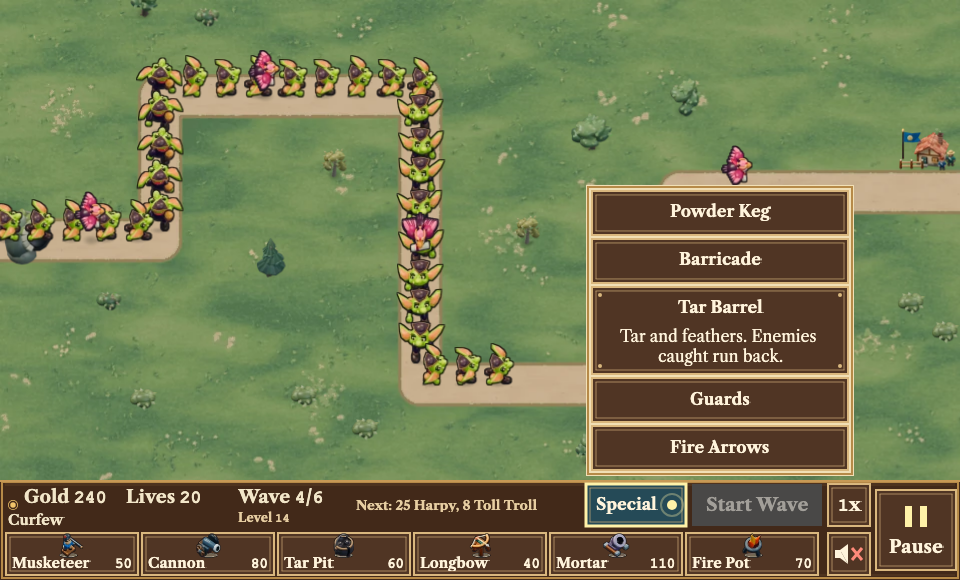
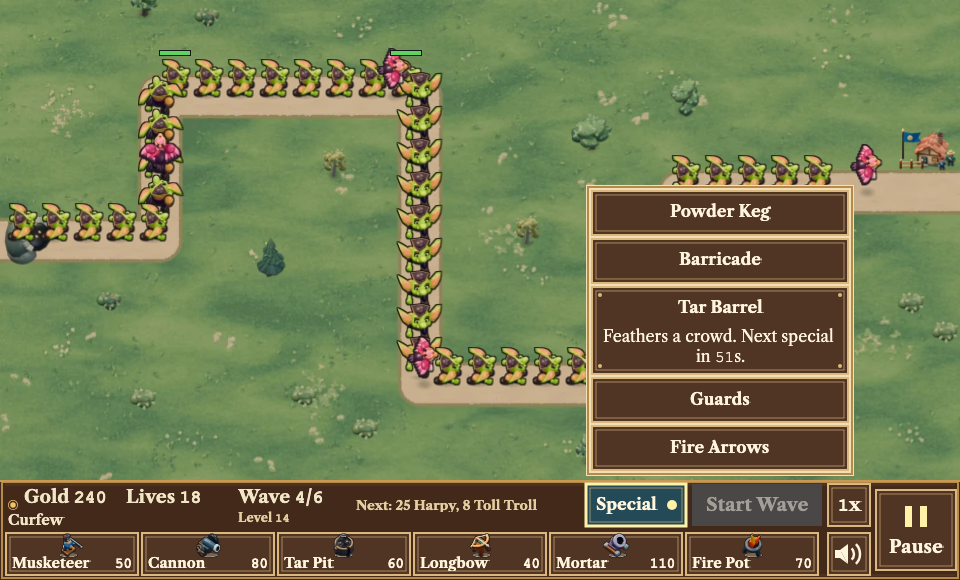
Show the feather barrel recharge before casting

diff --git a/e2e/feathers.ts b/e2e/feathers.ts
@@ -1,4 +1,5 @@
 import { expect, test, type Page } from '@playwright/test';
+import { levelTips } from '../src/game/names';
 import type { TarpitTestApi } from '../src/game/testGlobal';
 import { FEATHERS } from '../src/sim/feathers';
 import { BARREL_RECHARGE_TICKS, SPECIAL_RECHARGE_TICKS } from '../src/sim/specials';
@@ -14,6 +15,22 @@ async function start(page: Page, look: string) {
   await waitForTitle(page);
   await page.evaluate(() => (window.__tarpit as TarpitTestApi).startGame());
 }
+
+async function openTips(page: Page, level: number, touch: boolean) {
+  await page.goto('/?test=1');
+  await waitForFirstScreen(page, { showTips: true });
+  await page.evaluate(id => window.__tarpit!.setCampaignProgress!(
+    Object.fromEntries(Array.from({ length: id - 1 }, (_, i) => [i + 1, 3]))), level);
+  await press(page, 'title:campaign', touch);
+  await onScreen(page, 'levelMap');
+  await press(page, 'title:stop:' + level, touch);
+  await onScreen(page, 'levelCard');
+  await press(page, 'title:play', touch);
+  await onScreen(page, 'levelTips');
+}
+
+// Linux draws the bundled font about 2.6% wider than macOS before scaling.
+const wideFactor = process.platform === 'darwin' ? 1.09 : 1.06;
 
 export function featherLooks(look: string, phone: boolean) {
   test(look + ' shows the runner facing back, a stopped neighbour and a stable frozen frame', async ({ page }) => {
@@ -62,75 +79,19 @@ export function featherLooks(look: string, phone: boolean) {
 }
 
 export function featherLabels(phone: boolean) {
-  // Linux draws the bundled font about 2.6% wider than macOS before scaling.
-  const factor = process.platform === 'darwin' ? 1.09 : 1.06;
   for (const [level, tip] of [
     [5, 'Drop a Tar Barrel on a crowd to slow it down.'],
     [9, 'Feathers make tarred enemies run back. Bosses are too proud.'],
-    [11, 'Drop a Tar Barrel on a crowd and they run back.'],
   ] as const) test(`the level ${level} feather tip fits with wider text`, async ({ page }) => {
     test.setTimeout(60_000);
-    await useWideFontMetrics(page, factor);
-    await page.goto('/?test=1');
-    await waitForFirstScreen(page, { showTips: true });
-    await page.evaluate(id => window.__tarpit!.setCampaignProgress!(
-      Object.fromEntries(Array.from({ length: id - 1 }, (_, i) => [i + 1, 3]))), level);
-    await press(page, 'title:campaign', phone);
-    await onScreen(page, 'levelMap');
-    await press(page, 'title:stop:' + level, phone);
-    await onScreen(page, 'levelCard');
-    await press(page, 'title:play', phone);
-    await onScreen(page, 'levelTips');
+    await useWideFontMetrics(page, wideFactor);
+    await openTips(page, level, phone);
     expect(await api(page, t => t.campaignLabels().map(label => label.text))).toContain(tip);
     await checkSpacing(page);
   });
 
-  for (const metrics of ['normal', 'fixed Caslon', 'fixed fallback', 'wide']) {
-    test(`C9: the barrel description and wait follow the level rule (${metrics})`, async ({ page }) => {
-      test.setTimeout(90_000);
-      if (metrics === 'wide') await useWideFontMetrics(page, factor);
-      if (metrics.startsWith('fixed')) await useTallFontMetrics(page, metrics === 'fixed fallback');
-      await start(page, 'painted');
-      for (const id of [0, 5, 14]) {
-        if (id) await page.evaluate(id => window.__tarpit!.startLevel!(id), id);
-        await api(page, t => { if (!t.state().level) t.state().wave = 3; t.startWave(); });
-        await press(page, 'special', phone);
-        const caption = 'Tar and feathers. Enemies caught run back.';
-        await checkLabel(page, 'special:tarBarrel', 'Tar Barrel');
-        if (id === 14) {
-          await checkLabel(page, 'special:tarBarrel', caption);
-          const labels = await api(page, t => t.campaignLabels());
-          const name = labels.find(line => line.text === 'Tar Barrel')!;
-          expect(labels.find(line => line.text === caption)!.y).toBeGreaterThan(name.y + name.height);
-        } else expect(await visibleTexts(page)).not.toContain(caption);
-        await press(page, 'special:tarBarrel', phone);
-        await mapPress(page, 1, 7, phone);
-        const ticks = id === 14 ? BARREL_RECHARGE_TICKS : SPECIAL_RECHARGE_TICKS;
-        const wait = (remaining: number) => (phone ? '' : 'Wait ') + Math.ceil(remaining / TICKS_PER_SECOND) + 's';
-        await checkLabel(page, 'special', wait(ticks));
-        await page.evaluate(n => window.__tarpit!.step!(n), TICKS_PER_SECOND);
-        await checkLabel(page, 'special', wait(ticks - TICKS_PER_SECOND));
-        if (id === 14) {
-          expect(await api(page, t => {
-            t.state().spawnedPerGroup.fill(999);
-            t.state().enemies = [];
-            t.step(1);
-            return t.state().phase;
-          })).toBe('setup');
-          const remaining = ticks - TICKS_PER_SECOND - 1;
-          await checkLabel(page, 'special', wait(remaining));
-          await page.evaluate(n => window.__tarpit!.step!(n), TICKS_PER_SECOND);
-          await checkLabel(page, 'special', wait(remaining));
-          expect(await api(page, t => t.startWave().ok)).toBe(true);
-          await page.evaluate(n => window.__tarpit!.step!(n), TICKS_PER_SECOND);
-          await checkLabel(page, 'special', wait(remaining - TICKS_PER_SECOND));
-        }
-      }
-    });
-  }
-
   test('the Feathers description fits its card with wider text', async ({ page }) => {
-    await useWideFontMetrics(page, factor);
+    await useWideFontMetrics(page, wideFactor);
     await start(page, 'painted');
     await page.evaluate(() => {
       const t = window.__tarpit as TarpitTestApi;
@@ -161,4 +122,62 @@ export function featherLabels(phone: boolean) {
     expect(label.overlaps, text).toEqual([]);
     expect(label.cssSize, text).toBeGreaterThan(11.1);
   });
+}
+
+export function featherBarrelLabels(touch: boolean, phone = false) {
+  const heights = phone ? [664, 844] : [undefined];
+  for (const height of heights) for (const metrics of ['normal', 'fixed Caslon', 'fixed fallback', 'wide']) {
+    const layout = height ? `390x${height}, ` : '';
+    test(`C9: the barrel description, tip and wait follow the level rule (${layout}${metrics})`, async ({ page }) => {
+      test.setTimeout(90_000);
+      if (height) await page.setViewportSize({ width: 390, height });
+      if (metrics === 'wide') await useWideFontMetrics(page, wideFactor);
+      if (metrics.startsWith('fixed')) await useTallFontMetrics(page, metrics === 'fixed fallback');
+      await openTips(page, 11, touch);
+      const [, castTip, waitTip] = levelTips(11, touch);
+      const tips = await api(page, t => t.campaignLabels());
+      const cast = tips.find(line => line.text === castTip)!;
+      const delay = tips.find(line => line.text === waitTip)!;
+      expect(delay.y).toBeGreaterThan(cast.y + cast.height);
+      await checkSpacing(page);
+
+      const seconds = Math.ceil(BARREL_RECHARGE_TICKS / TICKS_PER_SECOND);
+      const caption = `Feathers a crowd. Next special in ${seconds}s.`;
+      await start(page, 'painted');
+      for (const id of [0, 5, 14]) {
+        if (id) await page.evaluate(id => window.__tarpit!.startLevel!(id), id);
+        await api(page, t => { if (!t.state().level) t.state().wave = 3; t.startWave(); });
+        await press(page, 'special', touch);
+        await checkLabel(page, 'special:tarBarrel', 'Tar Barrel');
+        if (id === 14) {
+          await checkLabel(page, 'special:tarBarrel', caption);
+          const labels = await api(page, t => t.campaignLabels());
+          const name = labels.find(line => line.text === 'Tar Barrel')!;
+          expect(labels.find(line => line.text === caption)!.y).toBeGreaterThan(name.y + name.height);
+        } else expect(await visibleTexts(page)).not.toContain(caption);
+        await press(page, 'special:tarBarrel', touch);
+        await mapPress(page, 1, 7, touch);
+        const ticks = id === 14 ? BARREL_RECHARGE_TICKS : SPECIAL_RECHARGE_TICKS;
+        const wait = (remaining: number) => (phone ? '' : 'Wait ') + Math.ceil(remaining / TICKS_PER_SECOND) + 's';
+        await checkLabel(page, 'special', wait(ticks));
+        await page.evaluate(n => window.__tarpit!.step!(n), TICKS_PER_SECOND);
+        await checkLabel(page, 'special', wait(ticks - TICKS_PER_SECOND));
+        if (id === 14) {
+          expect(await api(page, t => {
+            t.state().spawnedPerGroup.fill(999);
+            t.state().enemies = [];
+            t.step(1);
+            return t.state().phase;
+          })).toBe('setup');
+          const remaining = ticks - TICKS_PER_SECOND - 1;
+          await checkLabel(page, 'special', wait(remaining));
+          await page.evaluate(n => window.__tarpit!.step!(n), TICKS_PER_SECOND);
+          await checkLabel(page, 'special', wait(remaining));
+          expect(await api(page, t => t.startWave().ok)).toBe(true);
+          await page.evaluate(n => window.__tarpit!.step!(n), TICKS_PER_SECOND);
+          await checkLabel(page, 'special', wait(remaining - TICKS_PER_SECOND));
+        }
+      }
+    });
+  }
 }

diff --git a/src/game/names.ts b/src/game/names.ts
@@ -5,6 +5,8 @@
 
 import { LEVELS } from '../sim/levels.ts';
 import { BOONS } from '../sim/boons.ts';
+import { BARREL_RECHARGE_TICKS } from '../sim/specials.ts';
+import { TICKS_PER_SECOND } from '../sim/time.ts';
 import type { BoonId, Difficulty, EnemyType, LevelDef, LevelFeat, LevelTaxes, MapId, SpecialType, TargetingMode, TaxKind, TowerLevel, TowerType, UpgradePath } from '../sim';
 
 /** The wave 10 boss (docs/SCOPE-v4.md, milestone 23): the HUD boss bar and the wave 10 preview. */
@@ -231,7 +233,8 @@ export const SPECIAL_NAMES: Readonly<Record<SpecialType, string>> = {
   guards: 'Guards',
 };
 
-export const TAR_BARREL_DESCRIPTION = 'Tar and feathers. Enemies caught run back.';
+const featherBarrelWait = rechargeText(BARREL_RECHARGE_TICKS, TICKS_PER_SECOND, true);
+export const TAR_BARREL_DESCRIPTION = `Feathers a crowd. Next special in ${featherBarrelWait}.`;
 
 /** The HUD's special button label (milestone 25b). */
 export const SPECIAL_BUTTON_TEXT = 'Special';
@@ -612,7 +615,11 @@ function campaignTips(touch: boolean): Readonly<Record<number, readonly string[]
     8: ['Send Guards ahead of a pack of Redcoat Shieldbearers.', 'Place them on the trail where your towers can help.', 'Drop Fire Arrows on a crowd to burn it.'],
     9: [`${action} a tower you have upgraded once.`, 'Pick an upgrade before Assessor Grumblefoot arrives.', 'Feathers make tarred enemies run back. Bosses are too proud.'],
     10: ['King Grumblemaw calls Revenue Hounds. Save a Powder Keg.', 'Slow King Grumblemaw with tar, then hit him with fire.'],
-    11: ['Your opening tower goes up at its usual price.', 'Selling a tower still leaves it on the tax roll.', 'Drop a Tar Barrel on a crowd and they run back.'],
+    11: [
+      'First tower is untaxed. Sold towers still count for tax.',
+      'Drop a Tar Barrel on a crowd and they run back.',
+      `After a feather barrel, specials take ${featherBarrelWait} to return.`,
+    ],
     12: ['Put a Tar Pit where several towers can reach it.', 'Save a special for the pack that gets ahead.'],
     13: ['Plan your next purchase before the wave ends.', 'The clock waits while you choose a reward.', manualWaveTip],
     14: ['Check the ring before you build.', 'Keep the Mortar back. Its inner ring stays put.'],

diff --git a/src/game/names.test.ts b/src/game/names.test.ts
@@ -2,7 +2,22 @@ import { readFileSync } from 'node:fs';
 import ts from 'typescript';
 import { describe, expect, it } from 'vitest';
 import { LEVELS } from '../sim/levels';
-import { levelFeatText, ENEMY_SHORT_NAMES, GUARD_NAMES, LEVEL_NEW, LEVEL_STORY, STORY_TEXT, levelTips } from './names';
+import { BARREL_RECHARGE_TICKS } from '../sim/specials';
+import { TICKS_PER_SECOND } from '../sim/time';
+import { levelFeatText, ENEMY_SHORT_NAMES, GUARD_NAMES, LEVEL_NEW, LEVEL_STORY, STORY_TEXT, TAR_BARREL_DESCRIPTION, levelTips } from './names';
+
+it('states the approved feather barrel wait in the menu and after the casting tip', () => {
+  const seconds = Math.ceil(BARREL_RECHARGE_TICKS / TICKS_PER_SECOND);
+  expect(TAR_BARREL_DESCRIPTION).toBe(`Feathers a crowd. Next special in ${seconds}s.`);
+  for (const touch of [false, true]) {
+    expect(levelTips(11, touch).slice(-2)).toEqual([
+      'Drop a Tar Barrel on a crowd and they run back.',
+      `After a feather barrel, specials take ${seconds}s to return.`,
+    ]);
+  }
+  // Changing the displayed wait also requires reviewing the commissioned copy.
+  expect(seconds).toBe(51);
+});
 
 describe('the King’s collectors', () => {
   it('keeps the compact HUD labels and Guard names in their approved forms', () => {

diff --git a/e2e/hudButtonLabels.ts b/e2e/hudButtonLabels.ts
@@ -29,8 +29,12 @@ export async function checkLabel(page: Page, key: string, text: string) {
   expect(label, key + ' ' + text).toBeDefined();
   const description = page.viewportSize()!.height + 'px ' + key + ' ' + text;
   test.info().annotations.push({ type: 'font', description: description + ' ' + label!.css.toFixed(2) });
-  const shortPhoneLabel = page.viewportSize()!.height === 664 && (key === 'special' || key === 'startWave');
-  expect.soft(label!.css, description).toBeGreaterThanOrEqual(shortPhoneLabel ? 11 : 12);
+  let minimumCss = 12;
+  if (page.viewportSize()!.height === 664) {
+    if (key.startsWith('special:')) minimumCss = 11.1;
+    if (key === 'special' || key === 'startWave') minimumCss = 11;
+  }
+  expect.soft(label!.css, description).toBeGreaterThanOrEqual(minimumCss);
   if (key === 'startWave') {
     expect.soft(label!.lines.length, description).toBeLessThanOrEqual(2);
     if (text === 'Boss next') expect(label!.lines, description).toEqual(['Boss', 'next']);

diff --git a/e2e/feathers.spec.ts b/e2e/feathers.spec.ts
@@ -2,10 +2,11 @@ import { expect, test } from '@playwright/test';
 import { count, onScene, startPlay } from './sound';
 import { press } from './campaign';
 import { waitForFirstScreen } from './title';
-import { featherLabels, featherLooks } from './feathers';
+import { featherBarrelLabels, featherLabels, featherLooks } from './feathers';
 
 for (const look of ['classic', 'painted', 'showpiece']) featherLooks(look, false);
 featherLabels(false);
+featherBarrelLabels(false);
 
 test('a barrel is silent for feathers until a path B shot triggers one puff', async ({ page }) => {
   test.setTimeout(60_000);

diff --git a/e2e/feathers-phone.spec.ts b/e2e/feathers-phone.spec.ts
@@ -1,4 +1,5 @@
-import { featherLabels, featherLooks } from './feathers';
+import { featherBarrelLabels, featherLabels, featherLooks } from './feathers';
 
 featherLooks('painted', true);
 featherLabels(true);
+featherBarrelLabels(true, true);

diff --git a/e2e/feathers-touch.spec.ts b/e2e/feathers-touch.spec.ts
@@ -1,0 +1,3 @@
+import { featherBarrelLabels } from './feathers';
+
+featherBarrelLabels(true);

diff --git a/DEVLOG.md b/DEVLOG.md
@@ -11015,7 +11015,7 @@ Implementation and verification commits, in order, were `c881e20`, `7110caf`, `f
 
 ## Milestone 50, third pass — feather barrels in Act Two
 
-The retained build passes all twenty individual level gates. It misses C2 on four levels and misses S1 in the combined campaign gate (C5). The bounded search ended with the original acceptance thresholds in place.
+The retained build passes all twenty individual level gates and the combined campaign gate (C5), including S1. C2 passes on every Act Two level under the accepted one-life threshold. The level 12 and level 20 wave 6 adjustments closed the remaining S1 and C2 misses.
 
 A feather barrel takes 3,034 combat ticks to refill (50.57 seconds) and causes a 63-tick retreat (1.05 seconds). The control displays 51 seconds immediately after the cast. Ordinary barrels refill in 1,200 ticks and apply tar. The tower retreat remains 88 ticks. Main at `dca7edf` is the before-build for all comparisons below.
 
@@ -11028,6 +11028,8 @@ All ten levels enable the feather-barrel rule. Seven have economy or wave adjust
 | 11 | Wave 6 Troll count | 21 | 19 | −9.52% | Person's score and nudge margin (P1, L1m) |
 | 12 | Starting gold | 260 | 269 | +3.46% | Feat, tax and sensitivity (F1, T1, L6), and the specialist’s Feathers purchase |
 | 12 | Wave 1 Shieldbearer interval, seconds | 1.15 | 1.265 | +10.00% | Same level 12 checks |
+| 12 | Wave 6 Shieldbearer interval, seconds | 0.8 | 0.79 | −1.25% | Act Two difficulty step (S1) |
+| 12 | Wave 6 Troll count | 21 | 22 | +4.76% | Same level 12 check |
 | 13 | Wave 3 Harpy count | 39 | 34 | −12.82% | Person's score, nudge margin and sensitivity (P1, L1m, L6) |
 | 13 | Wave 5 Troll count | 15 | 13 | −13.33% | Same level 13 checks |
 | 17 | Wave 2 Harpy count | 30 | 27 | −10.00% | Person, feat and taxed-player margins (P1, F1, T2, L1m) |
@@ -11037,6 +11039,7 @@ All ten levels enable the feather-barrel rule. Seven have economy or wave adjust
 | 19 | Wave 3 Troll interval, seconds | 1.75 | 1.61 | −8.00% | Same level 19 checks |
 | 20 | Starting gold | 245 | 270 | +10.20% | Finale tax advantage (T1) |
 | 20 | Wave 2 second group, 24 enemies | Harpy | Goblin | Type change | Same level 20 check |
+| 20 | Wave 6 Troll interval, seconds | 3 | 2.85 | −5.00% | Barrel advantage (C2), with the campaign lives drop (L8) preserved |
 
 ### Act Two gate and barrel impact
 
@@ -11045,7 +11048,7 @@ Each cell reads main → retained. A single value applies to both. The forced po
 | Level | Good | Person | Beginner | Forced Good | Forced Person |
 |---:|---|---|---|---|---|
 | 11 | 2/20 | 2/14 | 0/0 | 2/20 → 2/16 | 2/18 → 1/6 |
-| 12 | 2/19 → 2/18 | 2/15 | 0/0 | 2/16 → 1/7 | 0/0 |
+| 12 | 2/19 → 2/17 | 2/15 → 2/13 | 0/0 | 2/16 → 1/6 | 0/0 |
 | 13 | 3/20 | 2/14 → 2/15 | 0/0 | 2/14 → 1/9 | 2/12 → 1/5 |
 | 14 | 3/20 | 2/14 | 0/0 | 3/20 | 3/20 → 2/13 |
 | 15 | 2/14 | 2/13 | 0/0 | 2/14 | 2/13 → 2/12 |
@@ -11053,14 +11056,14 @@ Each cell reads main → retained. A single value applies to both. The forced po
 | 17 | 2/20 | 2/14 | 0/0 | 2/20 | 1/4 → 1/1 |
 | 18 | 2/14 → 2/15 | 2/13 | 0/0 | 1/11 → 1/7 | 1/9 → 1/4 |
 | 19 | 2/14 | 2/14 → 2/15 | 0/0 | 1/4 → 0/0 | 0/0 |
-| 20 | 2/13 | 2/13 | 0/0 | 2/14 → 2/13 | 2/13 → 2/12 |
+| 20 | 2/13 | 2/13 | 0/0 | 2/14 → 2/13 | 2/13 |
 
 Barrel casts/enemies newly feathered by those casts. This count excludes tower featherings.
 
 | Level | Good | Person | Beginner | Forced Good | Forced Person |
 |---:|---|---|---|---|---|
 | 11 | 1/0 → 1/3 | 2/0 → 2/3 | 0/0 | 12/0 → 6/24 | 19/0 → 7/26 |
-| 12 | 3/0 → 2/13 | 3/0 → 2/11 | 0/0 | 22/0 → 9/50 | 20/0 → 8/47 |
+| 12 | 3/0 → 2/12 | 3/0 → 2/11 | 0/0 | 22/0 → 9/54 | 20/0 → 8/47 |
 | 13 | 3/0 → 3/17 | 6/0 → 4/13 | 0/0 | 11/0 → 7/18 | 23/0 → 8/16 |
 | 14 | 4/0 → 3/20 | 4/0 → 3/16 | 0/0 | 14/0 → 7/40 | 19/0 → 7/33 |
 | 15 | 1/0 → 1/3 | 4/0 → 3/2 | 0/0 | 12/0 → 5/20 | 19/0 → 7/15 |
@@ -11068,13 +11071,13 @@ Barrel casts/enemies newly feathered by those casts. This count excludes tower f
 | 17 | 3/0 → 2/8 | 3/0 → 2/4 | 0/0 | 18/0 → 8/25 | 24/0 → 9/31 |
 | 18 | 2/0 → 2/6 | 3/0 → 2/4 | 0/0 | 13/0 → 5/18 | 18/0 → 7/24 |
 | 19 | 4/0 → 3/19 | 4/0 → 3/12 | 0/0 | 15/0 → 3/12 | 9/0 → 3/7 |
-| 20 | 2/0 → 1/4 | 5/0 → 3/1 | 0/0 | 20/0 → 8/25 | 31/0 → 11/24 |
+| 20 | 2/0 → 1/3 | 5/0 → 3/1 | 0/0 | 20/0 → 8/24 | 31/0 → 11/24 |
 
-### Where the search stopped
+### Closing C2 and S1
 
-At 3,034/63 the C2 control leaves the barrel's turn unused but spends the same charge. Good and the control both earned two stars on each miss. On levels 15, 16, 18 and 20 their respective lives were 14/13, 14/13, 15/14 and 13/13. The first three miss by one life and the finale by two. Good still ended the finale on main's 13 lives. Across levels 1–6 versus 15–20, Good's mean dropped exactly 3.00 lives, the L8 minimum.
+At 3,034/63 the C2 control leaves the barrel's turn unused but spends the same charge. Under the original two-life threshold, levels 15, 16, 18 and 20 missed at 14/13, 14/13, 15/14 and 13/13 lives respectively. The coordinator accepted a one-life advantage for C2. With the wave 6 Troll interval at 2.85 s, level 20 now passes 13 to 12. Good still ends the finale on main's 13 lives. Across levels 1–6 versus 15–20, Good's mean drops exactly 3.00 lives, the L8 minimum.
 
-For S1, Person averaged 15⅓ on levels 8–10 and 14.00 on levels 11–20. The drop of 1⅓ misses 1½ by one-sixth. The ten-level total must fall from 140 to 138 or lower. The first Act Two stop adds one life relative to level 10. The greatest adjacent decline in Act Two is two lives, from level 19 to level 20. Both transitions pass.
+For S1, the level 12 wave 6 changes lower Person's Act Two mean from 14.00 to 13.80 lives. The preceding three levels average 15.33, giving a drop of 1.53 against the required 1.50. The first Act Two stop adds one life relative to level 10. The greatest adjacent decline in Act Two is two lives.
 
 The 1,500-tick wait and 88-tick retreat gave every Act Two level the required barrel benefit, including a legal level 20 combination with Good on 14 versus 12 unused. Its remaining local failures were level 13 L6 and level 19 F2, L1m and L6. The combined campaign also missed S1 and L8. At the retained wait, reducing the level 20 wave 6 Troll interval from 3 to 2.5 seconds cleared its C2 comparison but moved Good's six-level mean drop one-sixth below the L8 floor. The 3,000/65, 3,034/65 and 3,034/88 trials each lost local gates at the prior retune. These trials establish tradeoffs for the tested settings. They do not exhaust the permitted wave changes.
 
@@ -11083,9 +11086,9 @@ The 1,500-tick wait and 88-tick retreat gave every Act Two level the required ba
 | Target | What a regression reports |
 |---|---|
 | C1 | Expected eligible enemy IDs versus emitted feather events, including the radius edge, Harpy, bosses, prior marks and the repeat cast. An ordinary cast with a retreat fails on its level or Free play. |
-| C2 | The level and both stars/lives results when the cast gains less than two lives or one star and Good finishes below 20. |
+| C2 | The level and both stars/lives results when the cast gains neither a life nor a star and Good finishes below 20. |
 | C4 | A Free play bot or matrix digest mismatch for its map, or a different report lock. The previous global-barrel build produced a Meadow bot digest beginning `a057568a` against `0c640ae4`. |
-| C5 | Failed labels for the individual level or the combined run. Here the combined result returns S1. |
+| C5 | Failed labels for the individual level or the combined run. |
 | C6 | The level and forced player exceeding a four-life advantage over Good, earning an additional third star, taking the wrong path or refusing an action. Independent path-only pins remain in force. |
 | C7 | A per-level digest mismatch for full runs or the reconstructed main level definition. The previous build produced a level 9 digest beginning `6ef74fe9` against `76a7118f`. |
 | C8 | A finale difference greater than two lives from 13. |
@@ -11100,17 +11103,21 @@ On level 12 the specialist had 106 gold before wave 3 and needed 110 to buy the 
 
 The first production browser run found a real overlap on paged landscape cards. In fixed Caslon and fallback metrics the feat intersected “Best stars” by 8.075 pixels. The layout now measures the rules again after wrapping them to the sheet width and fits the gaps to the available height. Levels 17 and 20 had 7.675 pixels of clearance after the repair. All ten Act Two notices were checked in desktop, tablet and both phone sizes with normal, fixed Caslon, fixed fallback and wide metrics (160 cases).
 
-The fifteen images in `docs/review/m50/` include a level 14 cast on eight enemies at desktop and phone sizes, three two-tax cards for level 17, and the 51-second special button. The eight enemies ran back 37–55.5 pixels. On level 5 three tarred enemies each moved forward 18.5 pixels during the control. On level 20 Grumblemaw advanced 17.64 pixels in tar with zero feather events. The old Showpiece crowd picture was retired because Act Two cannot select that look. The screenshot baseline specs exercise title, Free play or first-act scenes. No baseline spec is expected to change pixels. Local Playwright runs skip Linux pixel comparisons.
+The images in `docs/review/m50/` include a level 14 cast on eight enemies at desktop and phone sizes, three two-tax cards for level 17, and the 51-second special button. The eight enemies ran back 37–55.5 pixels. On level 5 three tarred enemies each moved forward 18.5 pixels during the control. On level 20 Grumblemaw advanced 17.64 pixels in tar with zero feather events. The old Showpiece crowd picture was retired because Act Two cannot select that look. The menu captures show the wait before the cast, and the phone tips capture shows the two barrel instructions on level 11. The screenshot baseline specs exercise title, Free play or first-act scenes. Local Playwright runs skip Linux pixel comparisons.
 
-The full unit suite passed 2,843 of 2,848 tests across 130 files. Five assertions failed, all in the combined gate or the four C2 controls listed above. The independent path-only pins passed. The specialist usage check runs the entire campaign when invoked alone. Its cold run exceeded the old 120-second limit under concurrent load, so it now uses the same 480-second budget as the combined gate.
+Before the closing changes, the full unit suite passed 2,843 of 2,848 tests across 130 files. Five assertions failed in the combined gate and the four original C2 controls. The independent path-only pins passed. The specialist usage check runs the entire campaign when invoked alone. Its cold run exceeded the old 120-second limit under concurrent load, so it now uses the same 480-second budget as the combined gate.
 
 The full three-project Playwright run passed 1,189, skipped eight and caught the four fixed-font desktop/tablet overlaps. On the rebuilt production bundle, all 34 affected card, campaign, tip and countdown cases passed, including the four original failures. The size check measured 3,769,253 bytes across 30 files against the 20 MB budget. Lint, typecheck, the production build and all 219 asset manifest rows passed.
 
[2 lines of base64/hex data omitted]
+
+The copy checks compare both displayed waits with the rounded value from the data. A scratch change from 3,034 to 3,094 ticks produces 52s and fails the approved-duration assertion. Freezing either line at 51s with that scratch value fails its own copy assertion.
 
 ## Verifier (Claude Sonnet), milestone 50, independent run on d29ab2c
 
 Verdict: merge, with two record fixes (below). Everything here was measured on `d29ab2c` against a clean export of `dca7edf`.
+
+The copy follow-up updated the README recharge description and the third-pass record above.
 
 - **C4, C7.** My own comparison (not the repo's digests): 6 bots (Beginner, Good, Person, Feathers, Good-feat, Person-feat) on levels 1 to 10, and the same 6 on every Free play map and difficulty, 116 full-run digests over 2,093,163 bytes of JSON. Identical on both trees, and the level 1 to 10 definitions hash the same. Mutations that went red: barrel feathers on every level, barrel feathers bosses, enemy feathered twice, feather barrel refills at 1,200, ordinary barrel refills at 3,034, level 9 hpScale 0.987, level 3 gold +1, a town's-answer line missing on an Act Two card, and the line added to a plain first-act card.
 - **Changed numbers in `src/sim`.** Nine non-test files changed (actions, bots, feathers, game, levelTypes, levels, specialPolicy, specials, types). The levels table above (third pass) is stale. Final changes: L11 wave 6 Troll 21 to 19; L12 gold 260 to 269, wave 1 Shieldbearer interval 1.15 to 1.265, wave 6 Shieldbearer interval 0.8 to 0.79 and Troll 21 to 22; L13 wave 3 Harpy 39 to 34, wave 5 Troll 15 to 13; L17 wave 2 Harpy 30 to 27, wave 5 group 2 Harpy to Goblin; L18 gold 260 to 275; L19 wave 2 Harpy interval 1.08 to 1.2312, wave 3 Troll interval 1.75 to 1.61; L20 gold 245 to 270, wave 2 group 2 Harpy to Goblin, wave 6 Troll interval 3 to 2.85. All gold within 15% (largest +10.2%); no health scale moved. The L12 wave 6 and L20 wave 6 edits came in the last commit, which has no DEVLOG entry; the C7 test does list them.

diff --git a/docs/DESIGN.md b/docs/DESIGN.md
@@ -2101,8 +2101,11 @@ the first screen. An open stop shows a card with the King's notice, level name, 
 twist, new equipment or enemies, and best stars. Act Two cards list each
 tax name and amount under “In force” and print the name and task for
 the third star. In town blue the notice reads “Town's answer: Tar Barrels feather crowds.”
-The special menu on these levels reads “Tar and feathers. Enemies caught run back.”
-Level 11 teaches “Drop a Tar Barrel on a crowd and they run back.” Notices, tax amounts and build limits read the level record.
+The special menu on these levels reads “Feathers a crowd. Next special in 51s.”
+Level 11 teaches “Drop a Tar Barrel on a crowd and they run back.” The next
+tip reads “After a feather barrel, specials take 51s to return.” Both waits
+use the base barrel recharge from the data and round up like the Special
+button. Notices, tax amounts and build limits read the level record.
 The card measures the printed lines. If there is insufficient room for the
 map and tactics, “Map notes” turns the card over and “Notice” turns it
 back. Play and best stars stay available on both pages. Portrait card body

diff --git a/README.md b/README.md
@@ -65,9 +65,10 @@ cloud shadows and the odd bird or butterfly, all still under reduced motion.
    Pit, Cannon and Mortar cannot hit them, and a Fire Pot's burn does not
    stick to them) and Redcoat Shieldbearers (small shots do
    half damage). Each one that reaches the cottage costs a life.
-8. **Specials.** The charge is ready when a wave starts and refills 20 s
-   after each use, so you can fire several in a wave. Press Special (left of
-   Start Wave), pick a special if more than one is unlocked, and click the
+8. **Specials.** Specials share one charge. Normally it refills after 20 s of
+   combat or when the next wave starts. In Act Two, a feather barrel takes
+   about 51 s of combat to refill, and that wait carries across waves. Press
+   Special (left of Start Wave), pick a special if more than one is unlocked, and click the
    trail where the circle covers the enemies; a banner says what to do, and
    Escape or Special again cancels. Powder Keg (from wave 1) blasts them, Tar
    Barrel (from wave 4) leaves a puddle that slows everything in it for 11 s,
